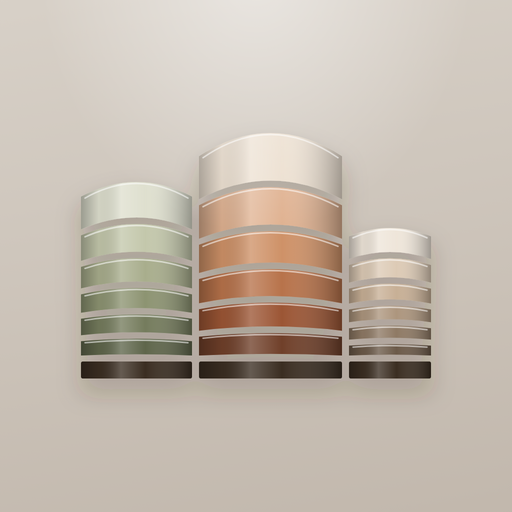
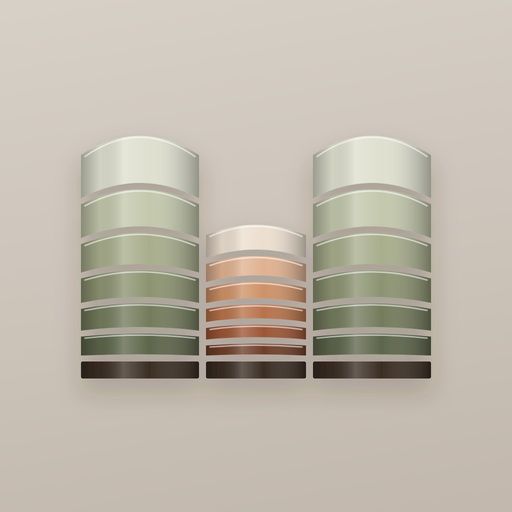
Eigen productlogo in plaats van het LuzeX-lockup
Elk product krijgt drie torens in dezelfde tekentaal als het LuzeX-beeldmerk,
maar in een eigen opstelling: ACCRD drie even hoog (alles klopt), CMMNTY twee
hoge rond een lagere (zorg om het midden), RSLNT oplopend (groei). Het lockup
draagt de productnaam in Outfit Light met een eigen slogan; favicon, app-iconen
en het maskable-icoon volgen. De hoogte in de balk blijft 47px, de breedte volgt
de verhouding van het nieuwe lockup.

Claude-Session: https://claude.ai/code/session_01DbSy4H9TgScYAeZfyUHyBw

Changed region(s): [[0.1562, 0.25, 0.8438, 0.75], [0.4688, 0.0, 0.5312, 0.0312]]

diff --git a/frontend/styles.css b/frontend/styles.css
@@ -345,11 +345,14 @@ body::after {
 
 /* ---------- Merk ---------- */
 
+/* CMMNTY-lockup: 707,3 × 126 (= 5,613). Het is 126 hoog in plaats van 120 omdat de
+   g van "zorg" een onderstok heeft; daarom 277px breed, zodat de letters even groot staan als
+   in de andere LuzeX-producten (47px voor de bovenste 120). */
 .brand-logo {
   display: block;
-  width: 225px;
-  aspect-ratio: 4.789;
-  background-image: url("/assets/luzex-logo-zwart.svg");
+  width: 277px;
+  aspect-ratio: 5.613;
+  background-image: url("/assets/cmmnty-logo-zwart.svg");
   background-repeat: no-repeat;
   background-position: left center;
   background-size: contain;
@@ -358,7 +361,7 @@ body::after {
 
 @media (prefers-color-scheme: dark) {
   .brand-logo {
-    background-image: url("/assets/luzex-logo-wit.svg");
+    background-image: url("/assets/cmmnty-logo-wit.svg");
   }
 }
 
@@ -371,15 +374,6 @@ body::after {
   flex-shrink: 0;
 }
 
-.merk-product {
-  font-size: 12px;
-  font-weight: 600;
-  letter-spacing: 0.16em;
-  text-transform: uppercase;
-  color: var(--text-secondary);
-  padding-left: 12px;
-  border-left: 1px solid var(--border-strong);
-}
 
 /* ---------- De zwevende balk (zelfde onderdeel als op luzex.nl en ACCRD) ---------- */
 
@@ -445,12 +439,9 @@ body::after {
   }
 
   .balk .brand-logo {
-    width: min(45vw, 160px);
+    width: min(45vw, 197px);
   }
 
-  .merk-product {
-    display: none;
-  }
 
   .balk-acties {
     margin-left: auto;

diff --git a/frontend/common.js b/frontend/common.js
@@ -123,8 +123,7 @@ function tekenBalk(gebruiker) {
   houder.innerHTML = `
     <div class="balk">
       <a href="/" class="merk" aria-label="LuzeX CMMNTY — naar de homepage">
-        <span class="brand-logo" role="img" aria-label="LuzeX"></span>
-        <span class="merk-product">CMMNTY</span>
+        <span class="brand-logo" role="img" aria-label="CMMNTY — Samen beter in de zorg."></span>
       </a>
       <nav class="balk-nav" aria-label="Hoofdnavigatie">${links}</nav>
       <div class="balk-acties">${acties}</div>
@@ -138,7 +137,7 @@ function tekenVoet() {
   voet.innerHTML = `
     <div class="voet-boven">
       <div class="voet-merk">
-        <a href="https://luzex.nl" class="brand-logo" role="img" aria-label="LuzeX — Minder. Maar beter."></a>
+        <a href="https://luzex.nl" class="brand-logo" role="img" aria-label="CMMNTY — Samen beter in de zorg."></a>
         <p class="voet-tagline">Zorginnovatie in jip-en-janneke taal. Voor zorgprofessionals die het zelf doen.</p>
       </div>
       <div class="voet-kolom">
